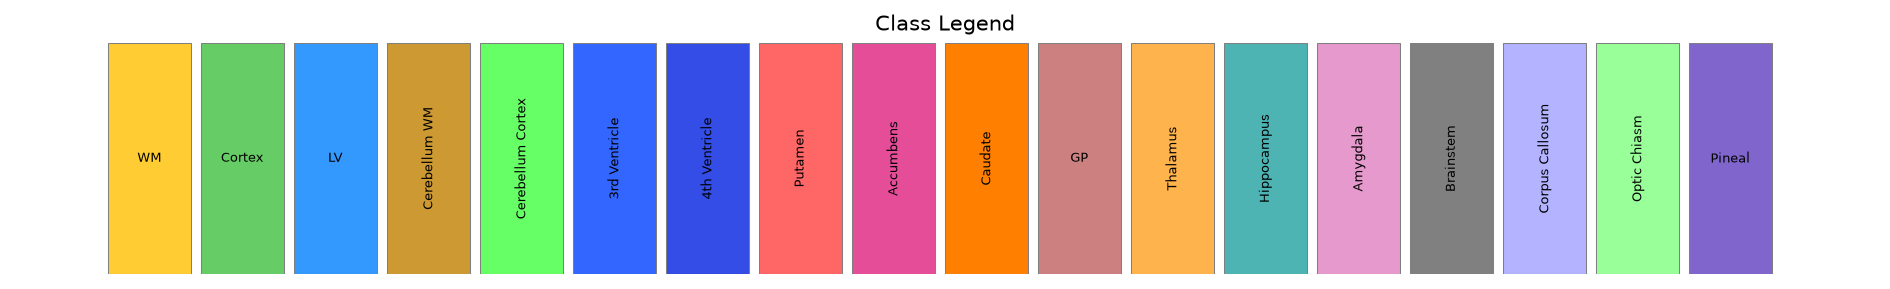
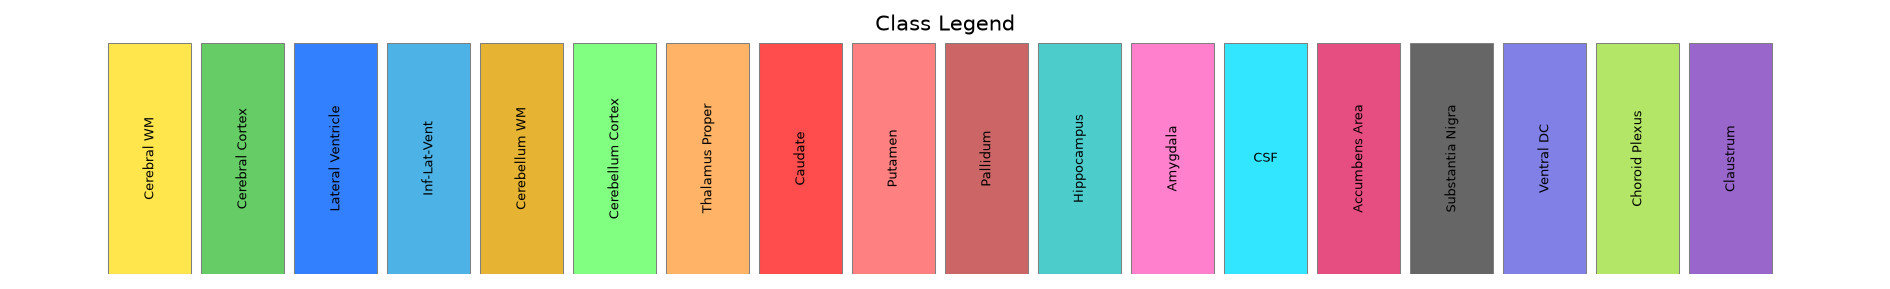
Fix tissue label names to match HEMI_COLLAPSE_MAP mapping
- Replace incorrect label names with correct FreeSurfer-derived mapping
- Document hemisphere collapse strategy (right→left merging)
- Add contiguous ID ← original ID ← structure name mapping table
- Regenerate overlay images with corrected colormap and legend

diff --git a/src/make_overlay.py b/src/make_overlay.py
@@ -17,32 +17,34 @@ from data.transforms import load_nifti, ensure_channel_first, reorient_to_ras
 # 19-class colormap (class 0=background transparent, 1-18 colored)
 CLASS_COLORS = [
     (0.0,   0.0,   0.0),    # 0: background
-    (1.0,   0.8,   0.2),    # 1: WM
-    (0.4,   0.8,   0.4),    # 2: cortex
-    (0.2,   0.6,   1.0),    # 3: LV
-    (0.8,   0.6,   0.2),    # 4: cerebellum WM
-    (0.4,   1.0,   0.4),    # 5: cerebellum cortex
-    (0.2,   0.4,   1.0),    # 6: 3rd ventricle
-    (0.2,   0.3,   0.9),    # 7: 4th ventricle
-    (1.0,   0.4,   0.4),    # 8: putamen
-    (0.9,   0.3,   0.6),    # 9: accumbens
-    (1.0,   0.5,   0.0),    # 10: caudate
-    (0.8,   0.5,   0.5),    # 11: GP
-    (1.0,   0.7,   0.3),    # 12: thalamus
-    (0.3,   0.7,   0.7),    # 13: hippocampus
-    (0.9,   0.6,   0.8),    # 14: amygdala
-    (0.5,   0.5,   0.5),    # 15: brainstem
-    (0.7,   0.7,   1.0),    # 16: corpus callosum
-    (0.6,   1.0,   0.6),    # 17: optic chiasm
-    (0.5,   0.4,   0.8),    # 18: pineal
+    (1.0,   0.9,   0.3),    # 1: Cerebral WM
+    (0.4,   0.8,   0.4),    # 2: Cerebral Cortex
+    (0.2,   0.5,   1.0),    # 3: Lateral Ventricle
+    (0.3,   0.7,   0.9),    # 4: Inf-Lat-Vent
+    (0.9,   0.7,   0.2),    # 5: Cerebellum WM
+    (0.5,   1.0,   0.5),    # 6: Cerebellum Cortex
+    (1.0,   0.7,   0.4),    # 7: Thalamus Proper
+    (1.0,   0.3,   0.3),    # 8: Caudate
+    (1.0,   0.5,   0.5),    # 9: Putamen
+    (0.8,   0.4,   0.4),    # 10: Pallidum
+    (0.3,   0.8,   0.8),    # 11: Hippocampus
+    (1.0,   0.5,   0.8),    # 12: Amygdala
+    (0.2,   0.9,   1.0),    # 13: CSF
+    (0.9,   0.3,   0.5),    # 14: Accumbens Area
+    (0.4,   0.4,   0.4),    # 15: Substantia Nigra
+    (0.5,   0.5,   0.9),    # 16: Ventral DC
+    (0.7,   0.9,   0.4),    # 17: Choroid Plexus
+    (0.6,   0.4,   0.8),    # 18: Claustrum
 ]
 
 CLASS_NAMES = [
-    "Background", "WM", "Cortex", "LV",
-    "Cerebellum WM", "Cerebellum Cortex", "3rd Ventricle", "4th Ventricle",
-    "Putamen", "Accumbens", "Caudate", "GP",
-    "Thalamus", "Hippocampus", "Amygdala", "Brainstem",
-    "Corpus Callosum", "Optic Chiasm", "Pineal",
+    "Background",
+    "Cerebral WM", "Cerebral Cortex", "Lateral Ventricle",
+    "Inf-Lat-Vent", "Cerebellum WM", "Cerebellum Cortex",
+    "Thalamus Proper", "Caudate", "Putamen", "Pallidum",
+    "Hippocampus", "Amygdala", "CSF",
+    "Accumbens Area", "Substantia Nigra", "Ventral DC",
+    "Choroid Plexus", "Claustrum",
 ]
 
 

diff --git a/README.md b/README.md
@@ -188,20 +188,57 @@ python predict_ensemble.py \
 
 ## Tissue Labels
 
-The tissue segmentation model outputs 19 classes (0 = background):
+The model outputs 19 contiguous classes (0 = background, 1–18 = tissue labels). Labels are derived from FreeSurfer-style anatomical IDs after hemisphere collapsing (left/right merged) and sorted-order remapping to contiguous indices.
 
-| ID | Tissue | ID | Tissue |
-|---|---|---|---|
-| 0 | Background | 10 | Caudate |
-| 1 | White Matter (WM) | 11 | Globus Pallidus |
-| 2 | Cortex | 12 | Thalamus |
-| 3 | Lateral Ventricle (LV) | 13 | Hippocampus |
-| 4 | Cerebellum WM | 14 | Amygdala |
-| 5 | Cerebellum Cortex | 15 | Brainstem |
-| 6 | 3rd Ventricle | 16 | Corpus Callosum |
-| 7 | 4th Ventricle | 17 | Optic Chiasm |
-| 8 | Putamen | 18 | Pineal Gland |
-| 9 | Accumbens | | |
+### Hemi-Collapse Mapping
+
+Right-hemisphere structures are merged into their left-hemisphere equivalents before contiguous remapping:
+
+| Original Right ID | Collapsed To | Structure |
+|---|---|---|
+| 41 | 2 | Cerebral White Matter |
+| 42 | 3 | Cerebral Cortex |
+| 43 | 4 | Lateral Ventricle |
+| 44 | 5 | Inferior Lateral Ventricle |
+| 46 | 7 | Cerebellum White Matter |
+| 47 | 8 | Cerebellum Cortex |
+| 49 | 10 | Thalamus Proper |
+| 50 | 11 | Caudate |
+| 51 | 12 | Putamen |
+| 52 | 13 | Pallidum |
+| 53 | 17 | Hippocampus |
+| 54 | 18 | Amygdala |
+| 58 | 26 | Accumbens Area |
+| 59 | 27 | Substantia Nigra |
+| 60 | 28 | Ventral Diencephalon |
+| 63 | 31 | Choroid Plexus |
+| 139 | 138 | Claustrum |
+
+### Contiguous Label IDs (Model Output)
+
+After sorting the collapsed IDs and mapping to contiguous 0..18:
+
+| Contig ID | Original ID | Structure |
+|---|---|---|
+| 0 | — | Background |
+| 1 | 2 | Cerebral White Matter |
+| 2 | 3 | Cerebral Cortex |
+| 3 | 4 | Lateral Ventricle |
+| 4 | 5 | Inferior Lateral Ventricle |
+| 5 | 7 | Cerebellum White Matter |
+| 6 | 8 | Cerebellum Cortex |
+| 7 | 10 | Thalamus Proper |
+| 8 | 11 | Caudate |
+| 9 | 12 | Putamen |
+| 10 | 13 | Pallidum |
+| 11 | 17 | Hippocampus |
+| 12 | 18 | Amygdala |
+| 13 | 24 | CSF |
+| 14 | 26 | Accumbens Area |
+| 15 | 27 | Substantia Nigra |
+| 16 | 28 | Ventral Diencephalon |
+| 17 | 31 | Choroid Plexus |
+| 18 | 138 | Claustrum |
 
 ## Training
 